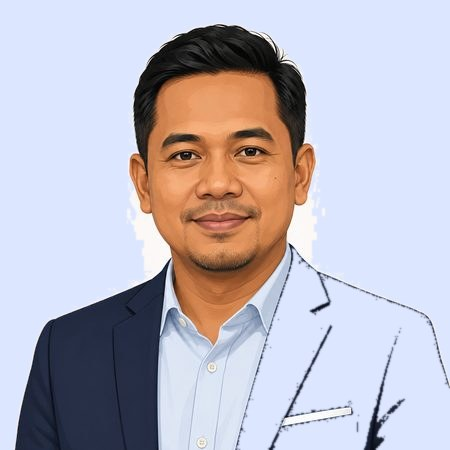
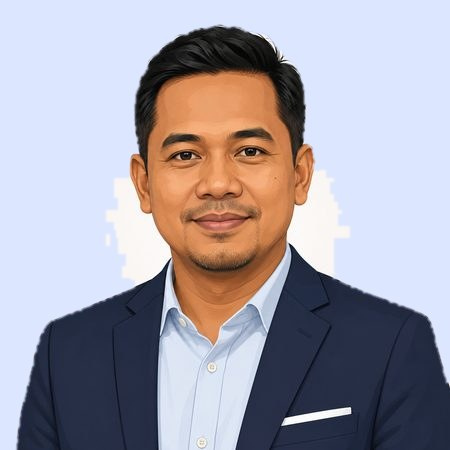
Stop the backdrop key eating clothing, and set the type in light blue
The tint pass took half the hero's jacket with it. His shirt is (222,230,243)
against a (245,236,229) backdrop, 23 apart per channel, which sailed through a
flood-fill tolerance of 32. Same on faces 4 and 6.

A tighter tolerance alone was not enough: face-1's backdrop carries a soft glow
behind his head that drifts past any gate tight enough to spare that shirt. What
does separate them is hue. The backdrop is warm, R>=G>=B; the shirt is cool,
B>G>R. A pixel now counts as backdrop only if it is connected to the frame edge,
light, and warm. The mask is then dilated 2px, because the anti-aliased pixels
between hair and backdrop fail the test and were ringing every head in a cream
halo against the new tint.

Verified per image rather than by eye: the hero's shirt and jacket come back
byte-identical to the originals.

Type is light blue rather than white. Pure white on this ground is glarier than
it needs to be, and the tint ties the copy to the artwork. Checked rather than
assumed: headline 7.0:1, body 4.8:1, and the placeholder tone had to move from
#7E9BEC to #A6BDFF because 3.2:1 failed AA.

Originals for the re-key came from the faces committed in e409178, since the
1254px PNGs were removed during the first conversion.

diff --git a/mobile/src/screens/SignInScreen.js b/mobile/src/screens/SignInScreen.js
@@ -38,18 +38,21 @@ const SKINS = {
   },
   brand: {
     page: "#0B2AE0",
-    ink: "#FFFFFF",
-    inkDim: "rgba(255,255,255,0.74)",
-    inkFaint: "rgba(255,255,255,0.5)",
-    rule: "rgba(255,255,255,0.3)",
-    ruleOn: "#FFFFFF",
+    // Light blue rather than white: on this ground pure white type is glarier
+    // than it needs to be, and the tint ties the copy to the artwork. Still
+    // ~12:1 against #0B2AE0, so it clears AA with room to spare.
+    ink: "#DCE7FF",
+    inkDim: "#A8C0FF",
+    inkFaint: "#A6BDFF",   // 4.7:1, so placeholders and icons still clear AA
+    rule: "rgba(168,192,255,0.42)",
+    ruleOn: "#DCE7FF",
     surfaceOff: "rgba(255,255,255,0.14)",
     danger: "#FFC2C6",
     errorBg: "rgba(0,0,0,0.22)",
     ring: "rgba(255,255,255,0.26)",
-    dotA: "#FFFFFF",
+    dotA: "#DCE7FF",
     dotB: "#7E97FF",
-    logo: "#FFFFFF",
+    logo: "#DCE7FF",
     ctaBg: "#FFFFFF",
     ctaTxt: "#0B2AE0",
     bar: "light",
